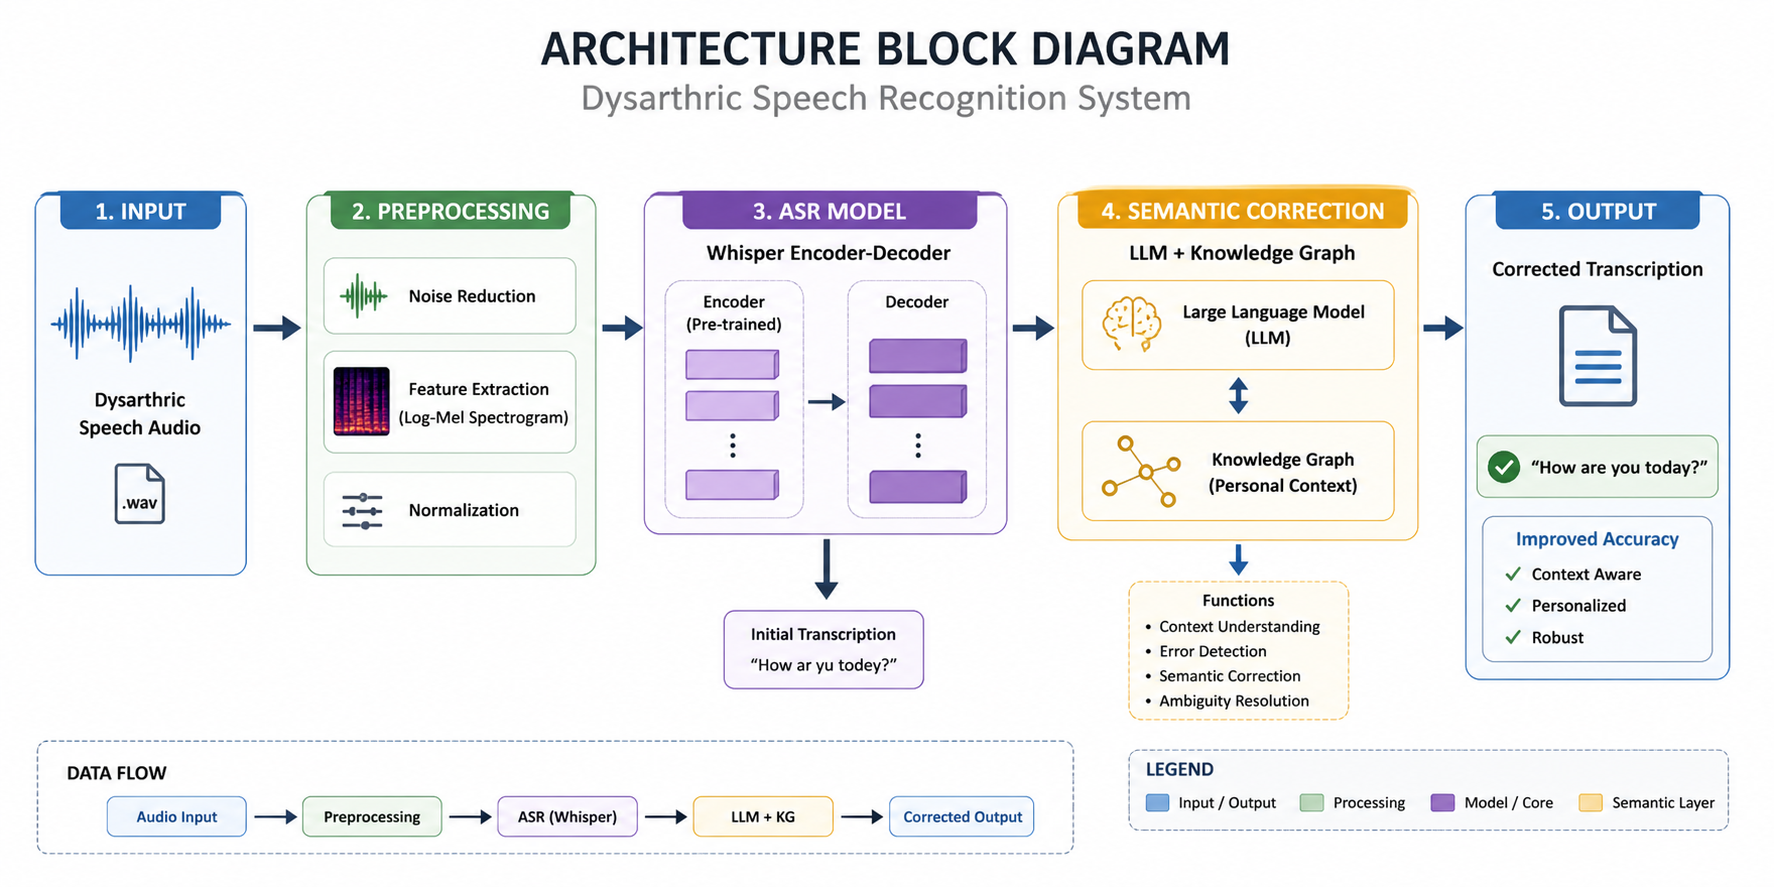
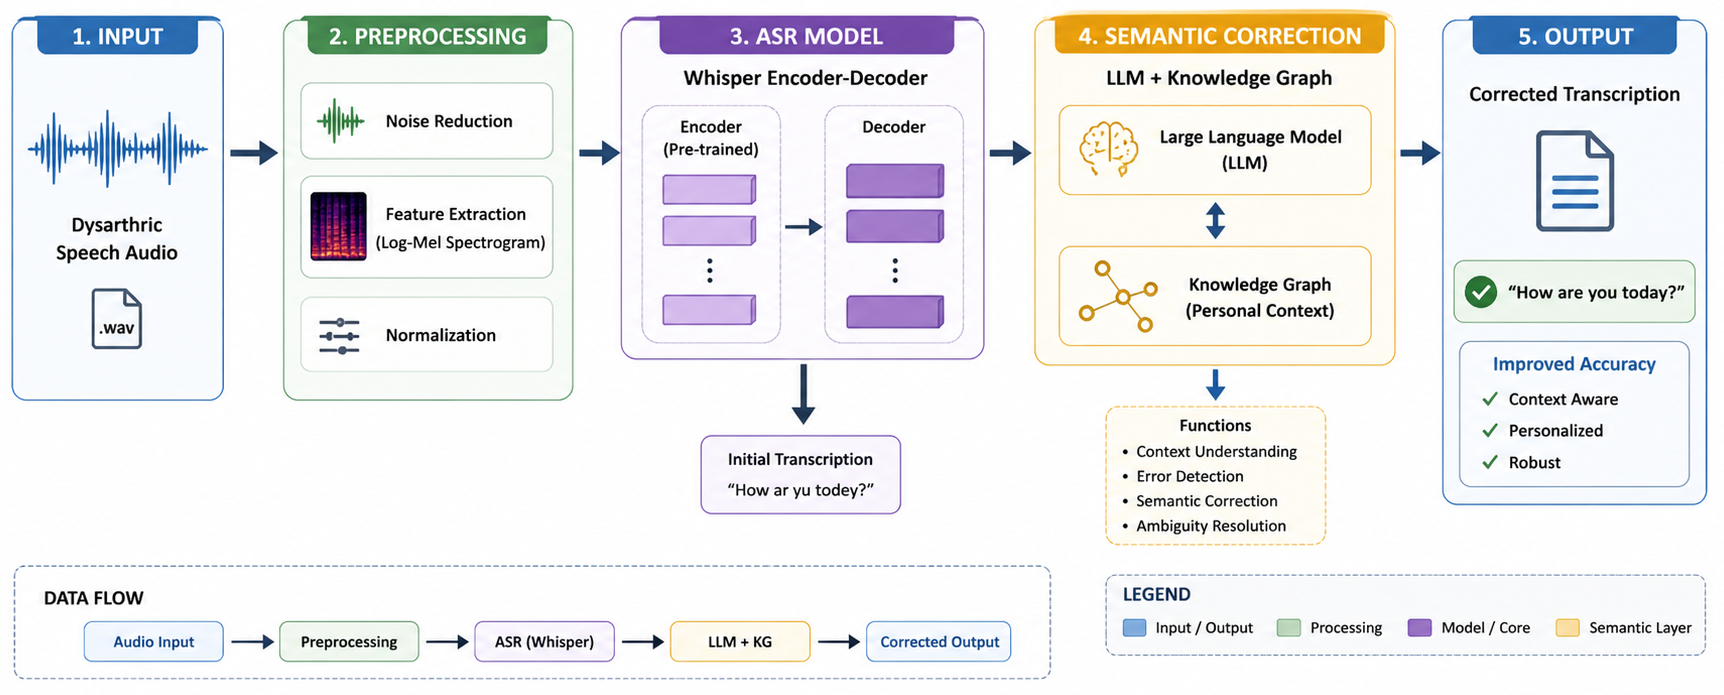
last commit

diff --git a/IDP_Report.tex b/IDP_Report.tex
@@ -89,13 +89,13 @@
 \newpage
 \begin{spacing}{1.5}
 \cleardoublepage
-\addcontentsline{toc}{chapter}{\listfigurename}
+\addcontentsline{toc}{chapter}{List of Figures}
 \listoffigures	
 \end{spacing}
 \newpage
 \begin{spacing}{1.5}
 \cleardoublepage
-\addcontentsline{toc}{chapter}{\listtablename}
+\addcontentsline{toc}{chapter}{List of Tables}
 \listoftables	
 \end{spacing}
 

diff --git a/Chapter2/chapter2-Funda.tex b/Chapter2/chapter2-Funda.tex
@@ -67,7 +67,7 @@ Fine-tuning adapts a pre-trained model to a specific domain. Parameter-efficient
 
 \begin{figure}[H]
 	\centering
-	\includegraphics[width=0.85\textwidth]{Chapter2/Figures/whisper_architecture.png}
+	\includegraphics[width=0.85\textwidth]{Figures/whisper_architecture.png}
 	\caption{Whisper Encoder-Decoder Transformer Architecture for End-to-End ASR}
 	\label{fig:whisper_arch}
 \end{figure}